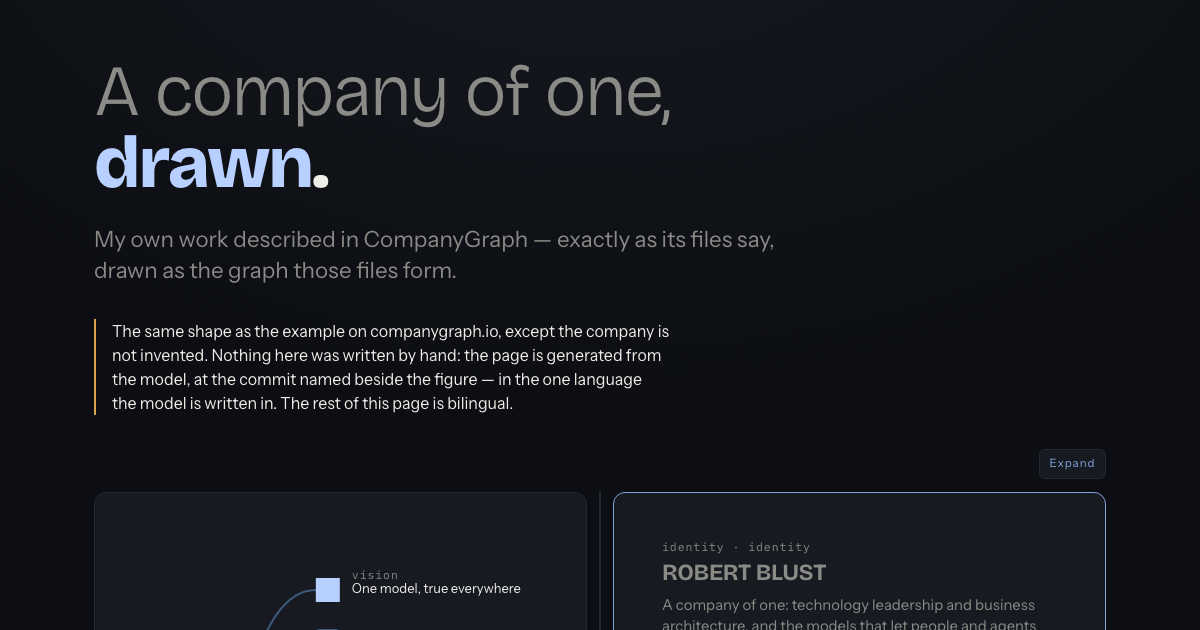
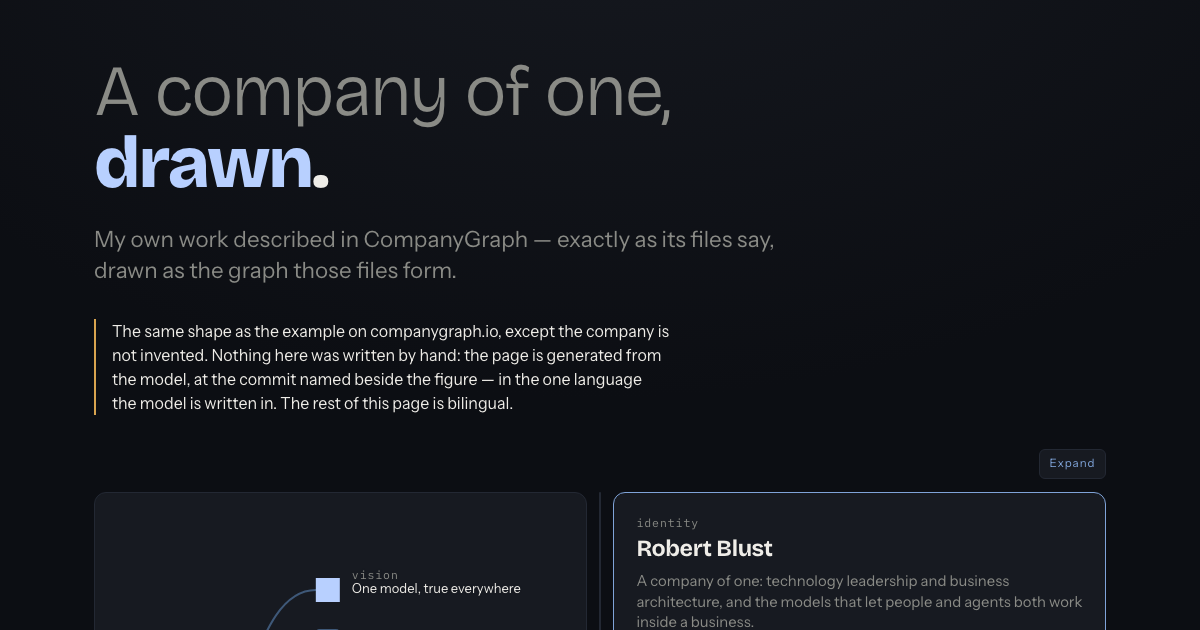
Design 0.31.0, and the two model pages drop the card grid they never had
The card names its type, drops source and groups its skills last, alphabetical at both
levels, with its title at the row's scale inside the ledger; that is the release. The
model and timeline pages carried the landing page's card-grid rules, which matched only
the stage's card and painted its title uppercase and dim, doubled its inset and re-spaced
its lists; the block leaves both pages and stage.css's card returns as written. The ledger
check reads the eyebrow as the type, the field list without source and skills, and counts
the chips against the skills the file names. The spec records the day's decisions.

Verified: npm run verify passes on every page; model:check, og:check and design:check pass.

Changed region(s): [[0.5242, 0.8143, 0.8942, 1.0]]

diff --git a/card.js b/card.js
@@ -16,8 +16,10 @@
 //     have to read the same, and one copy is the only way that stays true.
 (function(){
   var STR = {
-    view: { en:"View this file on GitHub", de:"Diese Datei auf GitHub ansehen" },
-    now:  { en:"present",                 de:"heute" }
+    view:   { en:"View this file on GitHub", de:"Diese Datei auf GitHub ansehen" },
+    now:    { en:"present",                 de:"heute" },
+    skills: { en:"Skills",                  de:"Fähigkeiten" },
+    other:  { en:"Other",                   de:"Weitere" }
   };
   // A date is drawn as prose, not as the ISO the model stores, so the months travel with the
   // script the way every other word here does. The three lengths are core's three precisions:
@@ -86,11 +88,18 @@
     var data = opts.data, lang = opts.lang === "de" ? "de" : "en", link = opts.link;
     function ref(name){ var id = resolve(data, name); return id && link ? link(id) : document.createTextNode(name); }
     clear(bodyEl); clear(footEl);
-    bodyEl.appendChild(h("div", e.type + " · " + e.id, "eyebrow"));
+    // The type alone. The path used to follow it, and it was the longest line on the card
+    // for the least information: the foot names the file, and on the model page the path
+    // line above the drawing already says where you are.
+    bodyEl.appendChild(h("div", e.type, "eyebrow"));
     bodyEl.appendChild(h("h3", e.name));
     if (e.tagline) bodyEl.appendChild(h("p", e.tagline, "tag"));
     if (opts.note) bodyEl.appendChild(h("p", opts.note, "empty"));
-    var keys = Object.keys(e.fields);
+    // Two fields are not drawn in the list. `source` says where the page is mastered, and
+    // in an instance that masters itself it reads the same on every page — machinery, not a
+    // fact a reader came for. `skills` is a list of references out of the file, and it is
+    // the card's last section, grouped, rather than a field row: see below.
+    var keys = Object.keys(e.fields).filter(function(k){ return k !== "source" && k !== "skills"; });
     if (keys.length) {
       var dl = h("dl");
       keys.forEach(function(k){
@@ -144,6 +153,44 @@
         } else bodyEl.appendChild(para(par.replace(/\n/g, " ")));
       });
     });
+    // Skills last, and grouped. Each skill file names a `group`, and the card reads it off
+    // the entity a name resolves to. A group is a closed disclosure — its name and its count
+    // on the line, its skills as chips when opened — so a role claiming forty-five skills is
+    // ten lines rather than forty-five. Alphabetical at both levels, the groups and the chips
+    // inside them: one rule a reader can predict, and one that knows no name from any page,
+    // where the file's own order would put a different group first on every card. A skill whose file
+    // names no group, or that resolves to no file, is filed under "Other", last; a model
+    // whose skills carry no groups at all gets the flat list under the heading.
+    var skills = e.fields.skills;
+    if (Array.isArray(skills) && skills.length) {
+      bodyEl.appendChild(h("h4", STR.skills[lang]));
+      var groups = [], byGroup = {}, any = false;
+      skills.forEach(function(name){
+        var id = resolve(data, name), ent = id && data.entities.filter(function(x){ return x.id === id; })[0];
+        var g = ent && ent.fields && ent.fields.group;
+        if (g) any = true; else g = null;
+        var key = g || "\u0000other";
+        if (!byGroup[key]) { byGroup[key] = []; groups.push(key); }
+        byGroup[key].push(name);
+      });
+      if (!any) {
+        var flat = h("ul", null, "items");
+        skills.forEach(function(name){ var li = h("li"); li.appendChild(ref(name)); flat.appendChild(li); });
+        bodyEl.appendChild(flat);
+      } else {
+        var grps = h("div", null, "grps");
+        groups.filter(function(k){ return k !== "\u0000other"; }).sort(function(x, y){ return x.localeCompare(y, "en"); })
+          .concat(byGroup["\u0000other"] ? ["\u0000other"] : []).forEach(function(key){
+          var d = h("details", null, "grp"), s = h("summary", key === "\u0000other" ? STR.other[lang] : key);
+          s.appendChild(h("span", String(byGroup[key].length), "n"));
+          var chips = h("div", null, "chips");
+          byGroup[key].slice().sort(function(x, y){ return x.localeCompare(y, "en"); })
+            .forEach(function(name){ chips.appendChild(ref(name)); });
+          d.appendChild(s); d.appendChild(chips); grps.appendChild(d);
+        });
+        bodyEl.appendChild(grps);
+      }
+    }
     // Mono, so it is data: the file and the commit it is pinned at, which is what the link
     // resolves to. The phrasing a reader needs is on the label, not in the row.
     var a = h("a", e.path.slice(e.path.lastIndexOf("/") + 1) + " @ " + data.commit.slice(0, 7));

diff --git a/stage.css b/stage.css
@@ -113,6 +113,28 @@
   .cbody dd ul.items{list-style:none; margin:0; padding:0; display:flex;
                      flex-direction:column; gap:.28rem}
   .cbody .empty{color:var(--dim); line-height:1.5}
+  /* The skills section: one closed group per category, the category's name and its count on
+     the line, its skills as chips when opened. A chip is one bordered token per reference,
+     wrapping, each with an edge a pointer can find; the border is the rule and the text the
+     interactive stop. Used for a set of references and for nothing else, or the card grows a
+     second card style. The triangle is the disclosure's own mark, drawn in the candidate
+     blue and turned when open. */
+  .cbody .grps{margin-top:.5rem; display:flex; flex-direction:column; gap:.2rem}
+  .cbody .grp > summary{cursor:pointer; list-style:none; display:flex; align-items:baseline; gap:.5rem; padding:.1rem 0; font-size:.93rem}
+  .cbody .grp > summary::-webkit-details-marker{display:none}
+  .cbody .grp > summary::before{content:""; width:0; height:0; border-style:solid; border-width:4px 0 4px 6px;
+                                border-color:transparent transparent transparent var(--c-weak); flex:0 0 auto; transition:transform .15s ease}
+  .cbody .grp[open] > summary::before{transform:rotate(90deg); border-left-color:var(--c-mid)}
+  .cbody .grp > summary:hover{color:var(--c-mid)}
+  .cbody .grp > summary:focus-visible{outline:2px solid var(--c-mid); outline-offset:2px; border-radius:3px}
+  .cbody .grp > summary .n{font-family:"Plex Mono",monospace; font-size:.74rem; color:var(--dim); letter-spacing:.06em}
+  .cbody .grp > .chips{display:flex; flex-wrap:wrap; gap:.4rem .45rem; padding:.3rem 0 .55rem 1.1rem}
+  .cbody .chips a{font-size:.86rem; line-height:1.25; padding:.26rem .6rem; border-radius:6px; border:1px solid var(--rule);
+                  color:var(--c-mid); text-decoration:none}
+  .cbody .chips a:hover, .cbody .chips a:focus-visible{border-color:var(--c-mid)}
+  @media (prefers-reduced-motion: reduce){
+    .cbody .grp > summary::before{transition:none}
+  }
   @media (max-width: 860px){
     /* minmax(0,1fr), never a bare 1fr: a grid track sized `auto` at its floor takes the
        widest min-content of the items in it, and the card's is a table of quoted field
@@ -204,6 +226,9 @@
   .ledger .body{padding:.3rem 0 1.3rem calc(var(--when) + 1.25rem + 1.6rem + var(--lvl,0) * 1.5rem); max-width:calc(72ch + 12rem)}
   .ledger .body .card{height:auto}
   .ledger .body .cbody{overflow:visible}
+  /* The row leads the card: inside a ledger the card's title steps down to the row's scale,
+     the way the dialog sets the card's width. The card stays the same card. */
+  .ledger .cbody h3{font-size:1.2rem}
   .ledger .now{margin-top:.6rem; padding-left:calc(var(--when) + 1.25rem + 1.6rem); font-family:"Plex Mono",monospace; font-size:.72rem; letter-spacing:.08em; text-transform:uppercase; color:var(--dim)}
   @media (max-width:640px){
     .ledger{--when:4.2rem}

diff --git a/model/index.html b/model/index.html
@@ -485,21 +485,6 @@
         background:var(--raise); border:1.5px solid var(--c-firm);
         font-size:clamp(.95rem,1.6vw,1.2rem); color:var(--ink); letter-spacing:.02em}
 
-  .cols{margin-top:2rem; display:grid; gap:1.1rem; align-items:start;
-        grid-template-columns:repeat(auto-fit, minmax(280px, 1fr))}
-  .card{background:var(--raise); border:1.5px solid var(--rule); border-radius:12px;
-        padding:1.5rem 1.6rem}
-  .card h3{font-size:.76rem; font-weight:600; letter-spacing:.14em; text-transform:uppercase;
-           color:var(--dim)}
-  .card ul{margin-top:1.1rem; list-style:none; display:grid; gap:.95rem}
-  .card li{font-size:.98rem; line-height:1.45}
-  .card li b{font-weight:600}
-  .card li i{font-style:normal; display:block; color:var(--dim); font-size:.88rem; margin-top:.2rem}
-  .card li i .mono{font-size:.95em; color:var(--ink)}
-  /* five short items across a full-width card read as a list, not a column of stubs */
-  .wide ul{grid-template-columns:repeat(auto-fit, minmax(255px, 1fr)); gap:1.3rem 1.8rem}
-  /* the .never card (declined options): terms use plain --ink like any other card, no separate treatment needed */
-
   .rules{margin-top:2rem; display:grid; gap:1.6rem; max-width:68ch}
   .rules p{color:var(--dim); font-size:1rem}
   .rules p b{font-weight:600; color:var(--ink)}

diff --git a/timeline/index.html b/timeline/index.html
@@ -485,21 +485,6 @@
         background:var(--raise); border:1.5px solid var(--c-firm);
         font-size:clamp(.95rem,1.6vw,1.2rem); color:var(--ink); letter-spacing:.02em}
 
-  .cols{margin-top:2rem; display:grid; gap:1.1rem; align-items:start;
-        grid-template-columns:repeat(auto-fit, minmax(280px, 1fr))}
-  .card{background:var(--raise); border:1.5px solid var(--rule); border-radius:12px;
-        padding:1.5rem 1.6rem}
-  .card h3{font-size:.76rem; font-weight:600; letter-spacing:.14em; text-transform:uppercase;
-           color:var(--dim)}
-  .card ul{margin-top:1.1rem; list-style:none; display:grid; gap:.95rem}
-  .card li{font-size:.98rem; line-height:1.45}
-  .card li b{font-weight:600}
-  .card li i{font-style:normal; display:block; color:var(--dim); font-size:.88rem; margin-top:.2rem}
-  .card li i .mono{font-size:.95em; color:var(--ink)}
-  /* five short items across a full-width card read as a list, not a column of stubs */
-  .wide ul{grid-template-columns:repeat(auto-fit, minmax(255px, 1fr)); gap:1.3rem 1.8rem}
-  /* the .never card (declined options): terms use plain --ink like any other card, no separate treatment needed */
-
   .rules{margin-top:2rem; display:grid; gap:1.6rem; max-width:68ch}
   .rules p{color:var(--dim); font-size:1rem}
   .rules p b{font-weight:600; color:var(--ink)}

diff --git a/docs/superpowers/specs/2026-09-05-timeline-page-design.md b/docs/superpowers/specs/2026-09-05-timeline-page-design.md
@@ -302,3 +302,34 @@ existing tests hold the header version, the group's file list and the fence vers
 which clicks into an entity and reads its card.
 
 Verified by rendering, never by reading the diff.
+
+---
+
+## Amended 2026-09-06: the card, after a second look
+
+Decided against a prototype of the opened row, live beside the proposal, on 2026-09-06.
+Four things in §5 change, and the first of them is what made the other three visible.
+
+**The model and timeline pages carried a card grid they never had.** The rules from `.cols`
+through `.wide`, copied from the landing page, matched only the stage's `.card` and painted its
+title uppercase and dim, doubled its inset to 49 px and re-spaced its lists. Both pages drop
+that block; stage.css's card returns as written.
+
+**The card draws every field but two.** `source` is not drawn: in an instance that masters
+itself it reads Local on every page, machinery rather than a fact. `skills` is not a field row:
+it is the card's last section, under its own heading, one closed group per category as the
+skill files' `group` names it, the group's name and count on the line and its skills as chips
+when opened. Groups and the chips inside them are both alphabetical: one rule at both levels, and one
+that knows no name from any page. A model whose skills carry no group gets the
+flat list under the heading. Two columns and bullets were considered and refused: columns for
+reading across a list that has no across, bullets for the reason stage.css already gives.
+
+**The eyebrow is the type alone.** The path it carried was the card's longest line for the
+least information; the foot names the file, and the model page's path line says where you are.
+
+**Inside a ledger the card's title steps down** to 1.2 rem, so the row leads the card, the way
+the dialog sets the card's width. The card stays the same card.
+
+All four are design v0.31.0, a minor, since two synced files change and a site takes them with a
+sync. The `ledger` check reads the field list without the two fields and the eyebrow as the
+type, and counts the chips against the skills the file names.
